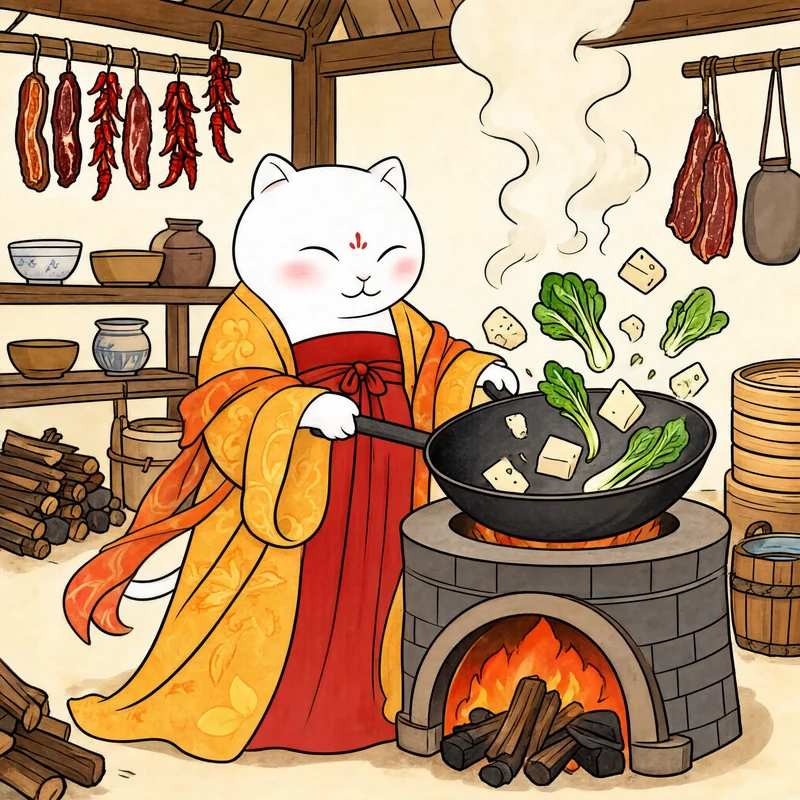
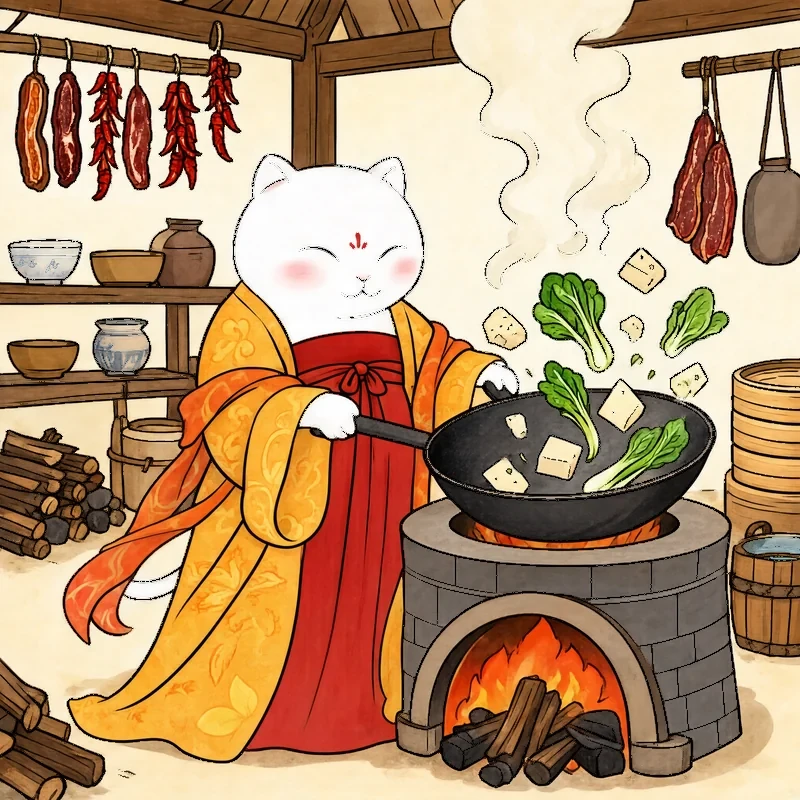
视觉: 两张插画线条瘦身——官方为工笔细线而生成线偏粗,用深色低饱和掩膜腐蚀+中值回填剥粗线内圈(胡须等细线保护),login误伤的w嘴手绘补回;两图纤细度对齐官方;方法论补后处理技法

diff --git a/docs/交接-2026-10-08.md b/docs/交接-2026-10-08.md
@@ -65,7 +65,7 @@
 
 ## 已知设计语义（勿"修复"）
 
-- **品牌插画基准（2026-10-08 定，第八轮修正）**: 全库插画以 `assets/illustrations/hero-tangcat-v12.webp` 与 `assets/brand/tangcat-official.png` 为画风基准——**纯白猫主角（官方白猫通体纯白无斑块,禁止自行加"橘斑";官方橘猫是通体橘）+ 小圆耳半贴头(禁止高耸尖耳) + 上宽下窄桃形脸 + 饱满月牙闭眼笑线 + 正红/金黄/赭石/石绿配色**;新增插画必须与基准并排对比逐张核验再入库。**生成方法论(九轮迭代结论)**: ①用官方图裁方做底图(风格迁移会滑回卡通线);②解剖硬约束(竖耳/长尾/猫爪/胡须,披帛绕臂严禁罩头);③场景必须详细化(器物层次/环境元素逐项列出)且交互真实(爪必须握住锅柄/提梁);④中式器物考据(土灶非壁炉、匾额留白防文字崩);⑤禁止清单写明(日系厚涂/大圆眼/渐变高光/人手);⑥迭代方式=在合格稿上定点修,禁止全量重掷
+- **品牌插画基准（2026-10-08 定，第八轮修正）**: 全库插画以 `assets/illustrations/hero-tangcat-v12.webp` 与 `assets/brand/tangcat-official.png` 为画风基准——**纯白猫主角（官方白猫通体纯白无斑块,禁止自行加"橘斑";官方橘猫是通体橘）+ 小圆耳半贴头(禁止高耸尖耳) + 上宽下窄桃形脸 + 饱满月牙闭眼笑线 + 正红/金黄/赭石/石绿配色**;新增插画必须与基准并排对比逐张核验再入库。**生成方法论(九轮迭代结论)**: ①用官方图裁方做底图(风格迁移会滑回卡通线);②解剖硬约束(竖耳/长尾/猫爪/胡须,披帛绕臂严禁罩头);③场景必须详细化(器物层次/环境元素逐项列出)且交互真实(爪必须握住锅柄/提梁);④中式器物考据(土灶非壁炉、匾额留白防文字崩);⑤禁止清单写明(日系厚涂/大圆眼/渐变高光/人手);⑥迭代方式=在合格稿上定点修,禁止全量重掷;⑦生成线偏粗时的后处理="线条掩膜腐蚀+中值回填"瘦身(深色低饱和像素为线,剥粗线内圈、细线胡须不受影响,剥后手绘补回被误伤的猫嘴)
 - **匹配度分级展示**: 有声明偏好→匹配度%(校准后 60-85%); 无声明/冷启动→"⭐ 本店推荐"金底徽标(不冒充个性匹配); 盲盒→32% 低分+"试试手气"(产品设计)
 - **品牌名/地址**: 品牌名"唐猫庭院"保留中文, 地址中英并列(打车场景), 不整体替换
 - **员工端(后台/厨房)**: 设计上中文, 不做 EN
